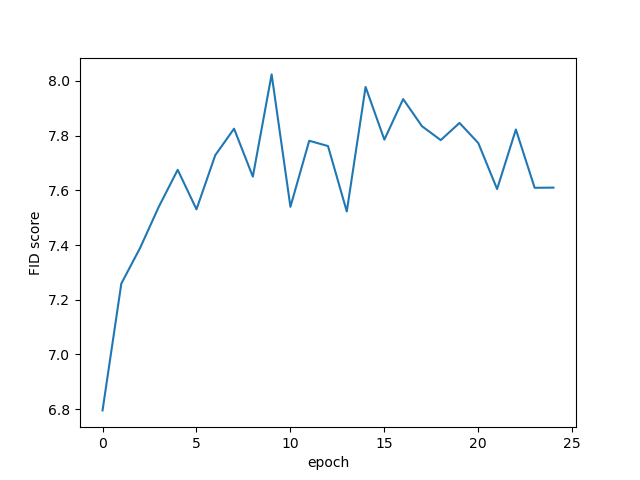
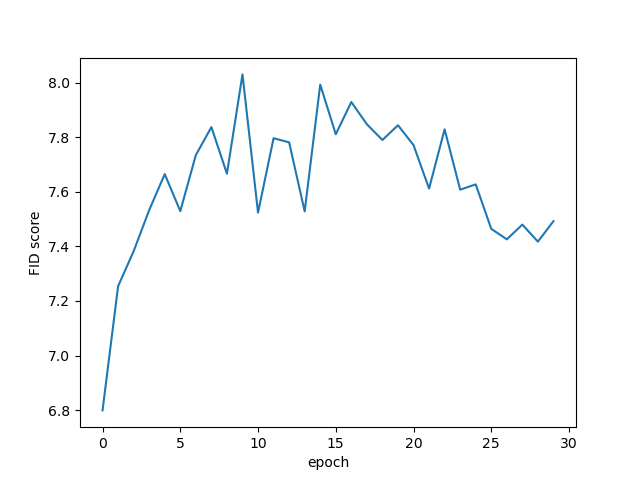
fid

diff --git a/stream.py b/stream.py
@@ -41,7 +41,7 @@ if 'loaded' not in st.session_state :
 
     st.session_state['mnist'] = torch.load('models/mnist-2dv2.pkl').to(DEVICE)
     st.session_state['ff'] = torch.load('models/ff-8d.pkl').to(DEVICE)
-    checkpoints = torch.load('models/checkpoint-17.pth', map_location='cpu')
+    checkpoints = torch.load('models/checkpoint-29.pth', map_location='cpu')
     parameters = checkpoints['model_state_dict']
     model_celeba = VAE_CelebA()
     model_celeba.load_state_dict(parameters)

diff --git a/fid.py b/fid.py
@@ -24,11 +24,11 @@ print('dataset loaded')
 
 scores = []
 
-checkpoints = [torch.load(f'checkpoints/checkpoint-{epoch}.pth', map_location=torch.device(DEVICE)) for epoch in range(25)]
+checkpoints = [torch.load(f'models/checkpoint-{epoch}.pth', map_location=torch.device(DEVICE)) for epoch in range(30)]
 parameters = [checkpoint['model_state_dict'] for checkpoint in checkpoints]
 
 
-for epoch in range(25):
+for epoch in range(30):
 
     model.load_state_dict(parameters[epoch])
 
